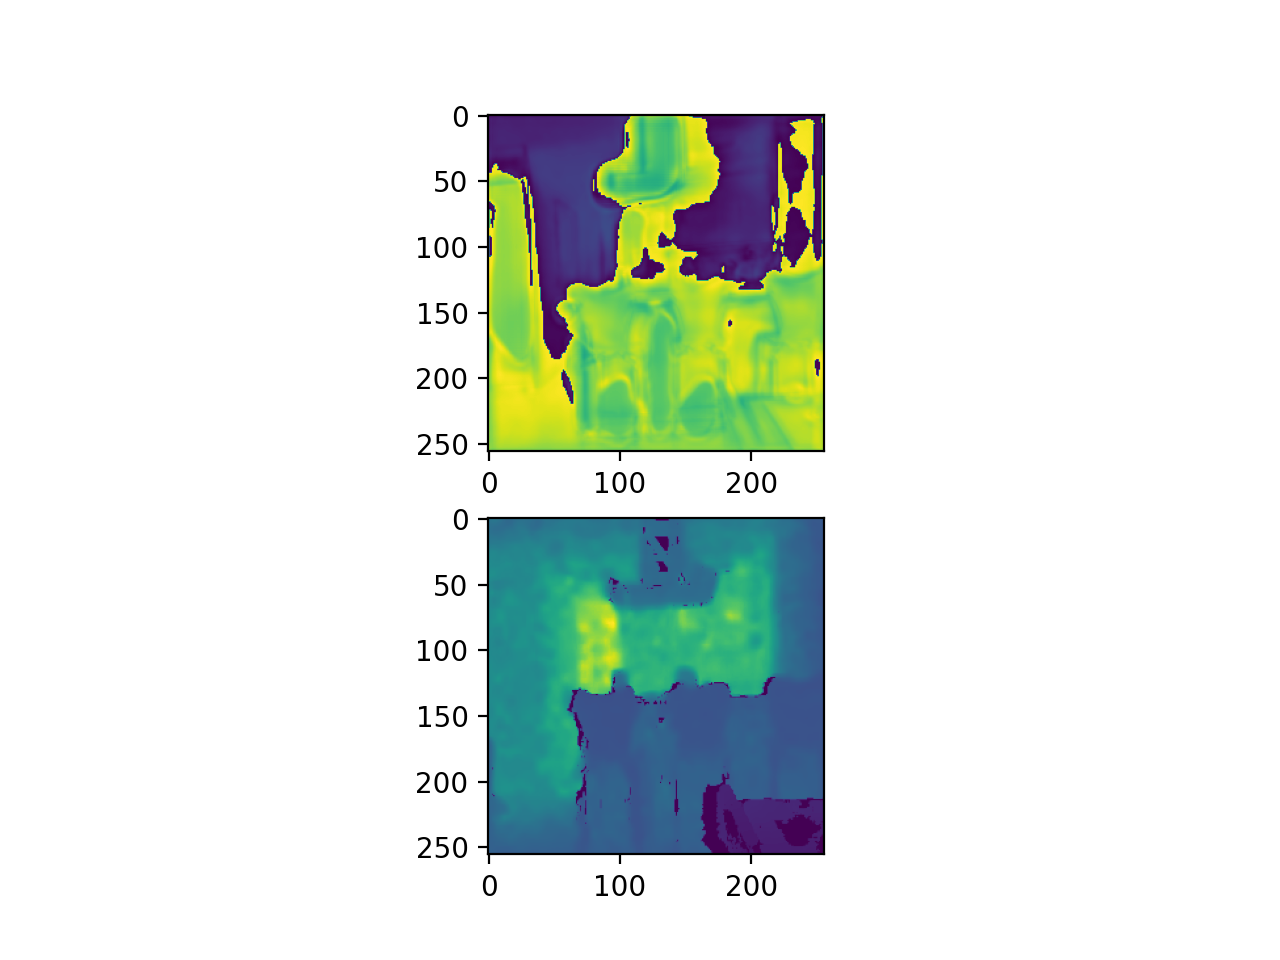
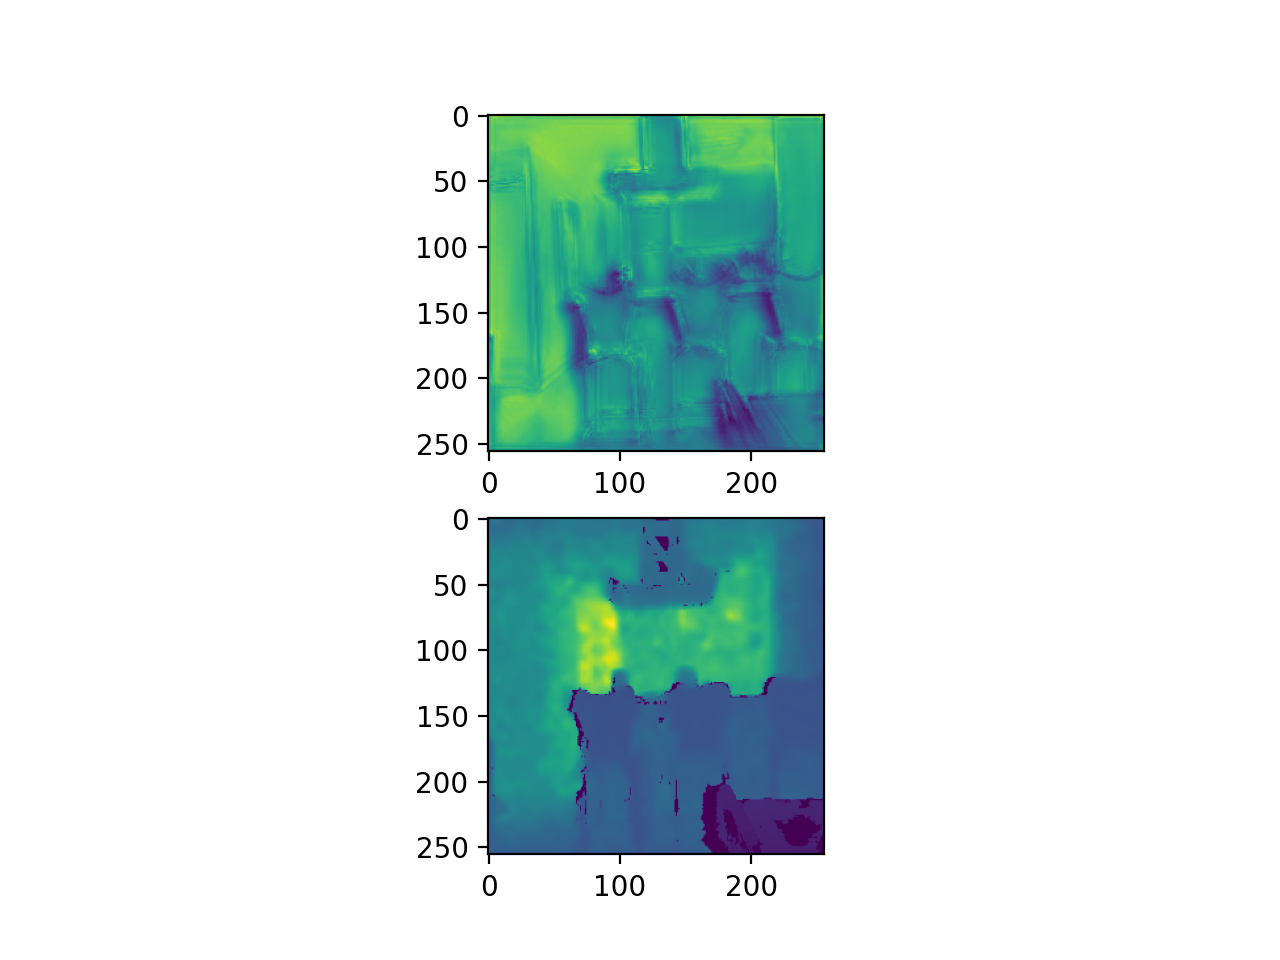
Ehoxha (#21)
* "Accidentally pushed directly to main branch"

* Add files via upload

* Add files via upload

* Finally, huh! Deleted __pycache__ folders!
	deleted:    dataloaders/__pycache__/dataloaders.cpython-36.pyc
	renamed:    dataloaders/__pycache__/dataloaders.py -> dataloaders/dataloaders.py
	deleted:    models/__pycache__/models.cpython-36.pyc
	deleted:    models/__pycache__/train.py
	renamed:    models/__pycache__/models.py -> models/models.py
	new file:   models/train.py

* Tested ResNet50 encoder... Not good!
Added Normalization to networks etc.
	new file:   Notebooks/dp_002.ipynb
	new file:   Notebooks/unet256.ipynb
	modified:   dataloaders/dataloaders.py
	new file:   models/res50.py
	new file:   models/test128.png
	new file:   models/test256.png
	new file:   models/testres50.png
	modified:   models/train.py
	renamed:    models/models.py -> models/unet128.py
	new file:   models/unet256.py

* Cleaned the code.
Made three different models.
Generated scripts to train and do some simple testing.
	new file:   models/test.py

* Monodepth2 in process. SSIM Loss...
	deleted:    ReadingMaterial/D3VO.pdf
	deleted:    ReadingMaterial/Monodepth2_Paper.pdf
	deleted:    ReadingMaterial/UNet.pdf
	new file:   losses/ssim_loss.py
	new file:   losses/ssim_tf.py
	new file:   losses/ssim_usingcv2.py
	new file:   models/monodepth2.py
	modified:   models/test.py
	modified:   models/test128.png
	modified:   models/test256.png
	modified:   models/train.py
	modified:   models/unet128.py
[…]

Changed region(s): [[0.375, 0.0938, 0.6562, 0.4688]]

diff --git a/models/test.py b/models/test.py
@@ -10,7 +10,7 @@ import numpy as np
 import os
  
   
-dataset_path = '/tmp/Projects2021/rgbd_dataset/dataset1/'
+dataset_path = '/tmp/Projects2021/rgbd_dataset/Driveway2/170721_C0'
 argv = sys.argv
 
 if argv[1] == 'unet128':
@@ -18,13 +18,27 @@ if argv[1] == 'unet128':
     dtloader = dataloader_rgbd(dataset_path, 8, image_size=128)
     X_test, y_test = dtloader.get_testing_sample()
     preds = model.predict(X_test)
-    prds1 = np.reshape(preds[0], newshape=(preds[0].shape[0]*preds[0].shape[1]))
-    plt.subplot(2,1,1)
-    pr = (np.reshape(prds1, newshape=(128, 128))*255)
-    plt.imshow(np.array(pr*255, dtype=np.int16))
-    plt.subplot(2,1,2)
-    plt.imshow(np.array(y_test[0]*255, dtype=np.int16))
-    plt.savefig('test128.png', dpi=200, format='png')
+    for i in range(9):
+        prds1 = np.reshape(preds[i], newshape=(preds[i].shape[0]*preds[i].shape[1]))
+        plt.subplot(2,1,1)
+        pr = (np.reshape(prds1, newshape=(128, 128))*255)
+        img_predicted = np.zeros((128, 128, 3))
+        img_predicted[:,:,0] = pr
+        img_predicted[:,:,1] = pr
+        img_predicted[:,:,2] = pr
+        plt.imshow(np.array(img_predicted, dtype=np.int16))
+        plt.subplot(2,1,2)
+        imgname = '/tmp/Projects2021/rgbd_dataset/Driveway2/170721_C0/depth/out_wb_00_170721_00000{0}_depth.png'.format(i+1)
+        depth_image = cv2.imread(imgname)
+        depth_image = cv2.resize(depth_image, (128, 128))
+        plt.imshow(np.array(depth_image, dtype=np.int16))
+        plt.savefig('test128_test_{0}.png'.format(i), dpi=200, format='png')
+    # for i in range(len(pr)):
+    #     print(pr[i])
+
+    # for i in range(len(pr)):
+    #     print(depth_image[i])
+    # print(depth_image.shape)
 
 elif argv[1] == 'unet256':
     model =  keras.models.load_model('best_model256.hdf5')
@@ -51,9 +65,10 @@ elif argv[1] == 'res50':
     plt.subplot(2,1,2)
     plt.imshow(np.array(y_test[0]*255, dtype=np.int16))
     plt.savefig('testres50.png', dpi=200, format='png')
+
 else:
     print("Command received: ", argv[1])
-    print("\nPlease define the model you want to train!\n")
+    print("\nPlease define the model you want to test!\n")
 
 
 

diff --git a/extrascripts/test_stuff.py b/extrascripts/test_stuff.py
@@ -1,0 +1,64 @@
+import tensorflow as tf
+import cv2
+import numpy as np
+import os
+import keras
+import sys
+sys.path.insert(1, '/tmp/Projects2021/depth_estimation/final-project-monodepth-ccny/dataloaders/')
+sys.path.insert(1, '/tmp/Projects2021/depth_estimation/final-project-monodepth-ccny/losses/')
+from ssim_loss import *
+from dataloaders import *
+from keras.callbacks import ModelCheckpoint
+from keras.optimizers import Adam
+
+
+rgb_images = os.listdir('/tmp/Projects2021/rgbd_dataset/dataset/rgb/')
+rgb_images.sort()
+rgb_images = [str('/tmp/Projects2021/rgbd_dataset/dataset/rgb/') + file for file in rgb_images]
+depth_images = os.listdir('/tmp/Projects2021/rgbd_dataset/dataset/depth/')
+depth_images.sort()
+depth_images = [str('/tmp/Projects2021/rgbd_dataset/dataset/depth/') + file for file in depth_images]
+
+test_size = 20
+rgb_images_test = rgb_images[:test_size]
+depth_images_test = depth_images[:test_size]
+
+# rgb_images_train = rgb_images[test_size:]
+# depth_images_train = depth_images[test_size:]
+
+# Load data:
+
+load_data = DataGenerator()
+
+# X_train, y_train = load_data.load_all(rgb_files=rgb_images_train, 
+#                                       depth_files=depth_images_train)
+
+X_test, y_test = load_data.load_all(rgb_files=rgb_images_test, 
+                                  depth_files=depth_images_test)
+
+print(y_test.shape)
+import matplotlib.pyplot as plt
+plt.subplot(2,1,1)
+pr = y_test[0]
+plt.imshow(pr)
+plt.subplot(2,1,2)
+plt.imshow(y_test[0])
+plt.savefig('test_imgs.png', dpi=200, format='png')
+for i in range(len(pr)):
+    print(pr[i])
+print(np.max(y_test[0]))
+# checkpoint = ModelCheckpoint('best_model128_ssim.hdf5',
+#                             monitor='loss',
+#                             save_best_only=True)
+
+# loss = ssim_loss(X_train[0], X_train[0])
+
+# amount = loss.call()
+# print(amount)
+# m = unet128(input_shape=[128, 128, 3])
+# m.model.compile(optimizer='adam', loss=ssim_loss())
+# m.model.summary()
+# m.model.fit(X_train, y_train, epochs=20,callbacks=[checkpoint])
+
+
+

diff --git a/dataloaders/dataloaders.py b/dataloaders/dataloaders.py
@@ -14,22 +14,22 @@ class dataloader_rgbd(tf.keras.utils.Sequence): #
         self.depth_images = os.listdir(str(str(dataset_path)+'/depth/'))
         self.depth_images.sort()
         self.depth_images = [str(str(dataset_path)+'/depth/') + file for file in self.depth_images]
-
+        
         # Shuffle later
         self.batch_size = batch_size
         self.shuffle = shuffle
         self.image_size = image_size
-        self.min_depth = 999999
-        self.max_depth = 0
-        for depthimg in self.depth_images:
-            depth = cv2.imread(depthimg, -1)
-            depth = cv2.resize(depth, (self.image_size, self.image_size))
-            mx = np.max(depth)
-            mn = np.min(depth)
-            if mx > self.max_depth:
-                self.max_depth = mx
-            if mn < self.min_depth:
-                self.min_depth = mn
+        # self.min_depth = 999999
+        # self.max_depth = 0
+        # for depthimg in self.depth_images:
+        #     depth = cv2.imread(depthimg, -1)
+        #     depth = cv2.resize(depth, (self.image_size, self.image_size))
+        #     mx = np.max(depth)
+        #     mn = np.min(depth)
+        #     if mx > self.max_depth:
+        #         self.max_depth = mx
+        #     if mn < self.min_depth:
+        #         self.min_depth = mn
         self.on_epoch_end()
 
     def on_epoch_end(self):
@@ -56,6 +56,8 @@ class dataloader_rgbd(tf.keras.utils.Sequence): #
         for depth_file in depth_imgs:
             depth_image = cv2.imread(depth_file, -1)
             depth_image = cv2.resize(depth_image, (self.image_size, self.image_size))
+            d_mean = np.nanmean(depth_image)
+            depth_image = np.where(depth_image == 0, d_mean, depth_image )
             depth_image = depth_image/np.max(depth_image) #(depth_image-self.min_depth)/(self.max_depth - self.min_depth)
             depth_images.append(depth_image)
             

diff --git a/models/train.py b/models/train.py
@@ -4,13 +4,13 @@ sys.path.insert(1, '/tmp/Projects2021/depth_estimation/final-project-monodepth-c
 from ssim_loss import *
 from dataloaders import *
 from unet128 import unet128
-from unet256_v2 import unet256_v2
+from unet256 import unet256
 from res50 import res50
 from keras.callbacks import ModelCheckpoint
 from keras.optimizers import Adam
 import matplotlib.pyplot as plt
 
-dataset_path = '/tmp/Projects2021/rgbd_dataset/dataset1/'
+dataset_path = '/tmp/Projects2021/rgbd_dataset/Driveway2/170721_C0'
 argv = sys.argv
 
 if len(argv) > 1:
@@ -21,7 +21,7 @@ if len(argv) > 1:
                                     save_best_only=True)
 
         m = unet128(input_shape=[128, 128, 3])
-        m.model.compile(optimizer='adam', loss=ssim_loss())
+        m.model.compile(optimizer='adam', loss='mse')
         m.model.summary()
         m.model.fit(dtloader, epochs=int(argv[2]), callbacks=[checkpoint])
 
@@ -31,7 +31,7 @@ if len(argv) > 1:
                                     monitor='loss',
                                     save_best_only=True)
 
-        m = unet256_v2(input_shape=[256, 256, 3])
+        m = unet256(input_shape=[256, 256, 3])
         m.model.compile(optimizer='adam', loss='mse')
         m.model.summary()
         m.model.fit(dtloader, epochs=int(argv[2]), callbacks=[checkpoint])
@@ -43,7 +43,8 @@ if len(argv) > 1:
                                     save_best_only=True)
 
         m = res50(input_shape=(128, 128, 3))
-        m.model.compile(optimizer='adam', loss='mse')
+        opt = Adam(0.001)
+        m.model.compile(optimizer=opt, loss='mse')
         m.model.summary()
         m.model.fit(dtloader, epochs=int(argv[2]), callbacks=[checkpoint])
     else:

diff --git a/losses/ssim_loss.py b/losses/ssim_loss.py
@@ -7,10 +7,34 @@ class ssim_loss(keras.losses.Loss):
         self.regularization_factor = regularization_factor
 
     def call(self, y_true, y_pred):        
-        ssim = tf.image.ssim(y_true, y_pred, 
+        y_pred1 = tf.squeeze(y_pred)
+        ssim = tf.image.ssim(y_true, y_pred1, 
                               max_val=1.0, 
                               filter_size=11,
                               filter_sigma=1.5,
                               k1=0.01,
                               k2=0.03)
-        return ssim
+        print("\n\n")
+        print(ssim)
+        print("\n\n")
+        return -ssim
+    
+    def depth_loss_function(self, y_true, y_pred, theta=0.1, maxDepthVal=1000.0/10.0):
+    
+        # Point-wise depth
+        l_depth = K.mean(K.abs(y_pred - y_true), axis=-1)
+
+        # Edges
+        dy_true, dx_true = tf.image.image_gradients(y_true)
+        dy_pred, dx_pred = tf.image.image_gradients(y_pred)
+        l_edges = K.mean(K.abs(dy_pred - dy_true) + K.abs(dx_pred - dx_true), axis=-1)
+
+        # Structural similarity (SSIM) index
+        l_ssim = K.clip((1 - tf.image.ssim(y_true, y_pred, maxDepthVal)) * 0.5, 0, 1)
+
+        # Weights
+        w1 = 1.0
+        w2 = 1.0
+        w3 = theta
+
+        return (w1 * l_ssim) + (w2 * K.mean(l_edges)) + (w3 * K.mean(l_depth))

diff --git a/losses/ssim_tf.py b/losses/ssim_tf.py
@@ -72,3 +72,27 @@ def tf_ms_ssim(img1, img2, mean_metric=True, level=5):
     return value
 
 
+def depth_loss_function(self, y_true, y_pred, theta=0.1, maxDepthVal=1000.0/10.0):
+
+    # Point-wise depth
+    l_depth = K.mean(K.abs(y_pred - y_true), axis=-1)
+
+    # Edges
+    dy_true, dx_true = tf.image.image_gradients(y_true)
+    dy_pred, dx_pred = tf.image.image_gradients(y_pred)
+    l_edges = K.mean(K.abs(dy_pred - dy_true) + K.abs(dx_pred - dx_true), axis=-1)
+
+    # Structural similarity (SSIM) index
+    l_ssim = K.clip((1 - tf.image.ssim(y_true, y_pred, maxDepthVal)) * 0.5, 0, 1)
+
+    # Weights
+    w1 = 1.0
+    w2 = 1.0
+    w3 = theta
+
+return (w1 * l_ssim) + (w2 * K.mean(l_edges)) + (w3 * K.mean(l_depth))
+
+
+depth_image1 = cv2.imread('/tmp/Projects2021/rgbd_dataset/dataset2/depth/d1.png', -1)
+depth_image2 = cv2.imread('/tmp/Projects2021/rgbd_dataset/dataset2/depth/d2.png', -1)
+

diff --git a/losses/ssim_usingcv2.py b/losses/ssim_usingcv2.py
@@ -8,8 +8,8 @@ def ssim(y_true, y_pred):
     img2 = y_pred
     # img1 = y_true.numpy()
     # img2 = y_pred.numpy()
-    # img1 = tf.convert_to_tensor(img1, dtype=tf.float32)
-    # img2 = tf.convert_to_tensor(img2, dtype=tf.float32)
+    img1 = tf.convert_to_tensor(img1, dtype=tf.float64)
+    img2 = tf.convert_to_tensor(img2, dtype=tf.float64)
     img1 = img1.astype(np.float64)
     img2 = img2.astype(np.float64)
     
@@ -33,7 +33,7 @@ def ssim(y_true, y_pred):
     return ssim_map.mean()
 
 
-depth_image1 = cv2.imread('/home/ehoxha/Projects2021/rgbd_dataset/dataset2/depth/d1.png', -1)
-depth_image2 = cv2.imread('/home/ehoxha/Projects2021/rgbd_dataset/dataset2/depth/d2.png', -1)
+depth_image1 = cv2.imread('/tmp/Projects2021/rgbd_dataset/dataset2/depth/d1.png', -1)
+depth_image2 = cv2.imread('/tmp/Projects2021/rgbd_dataset/dataset2/depth/d2.png', -1)
 
 # print(ssim(depth_image1, depth_image2))
